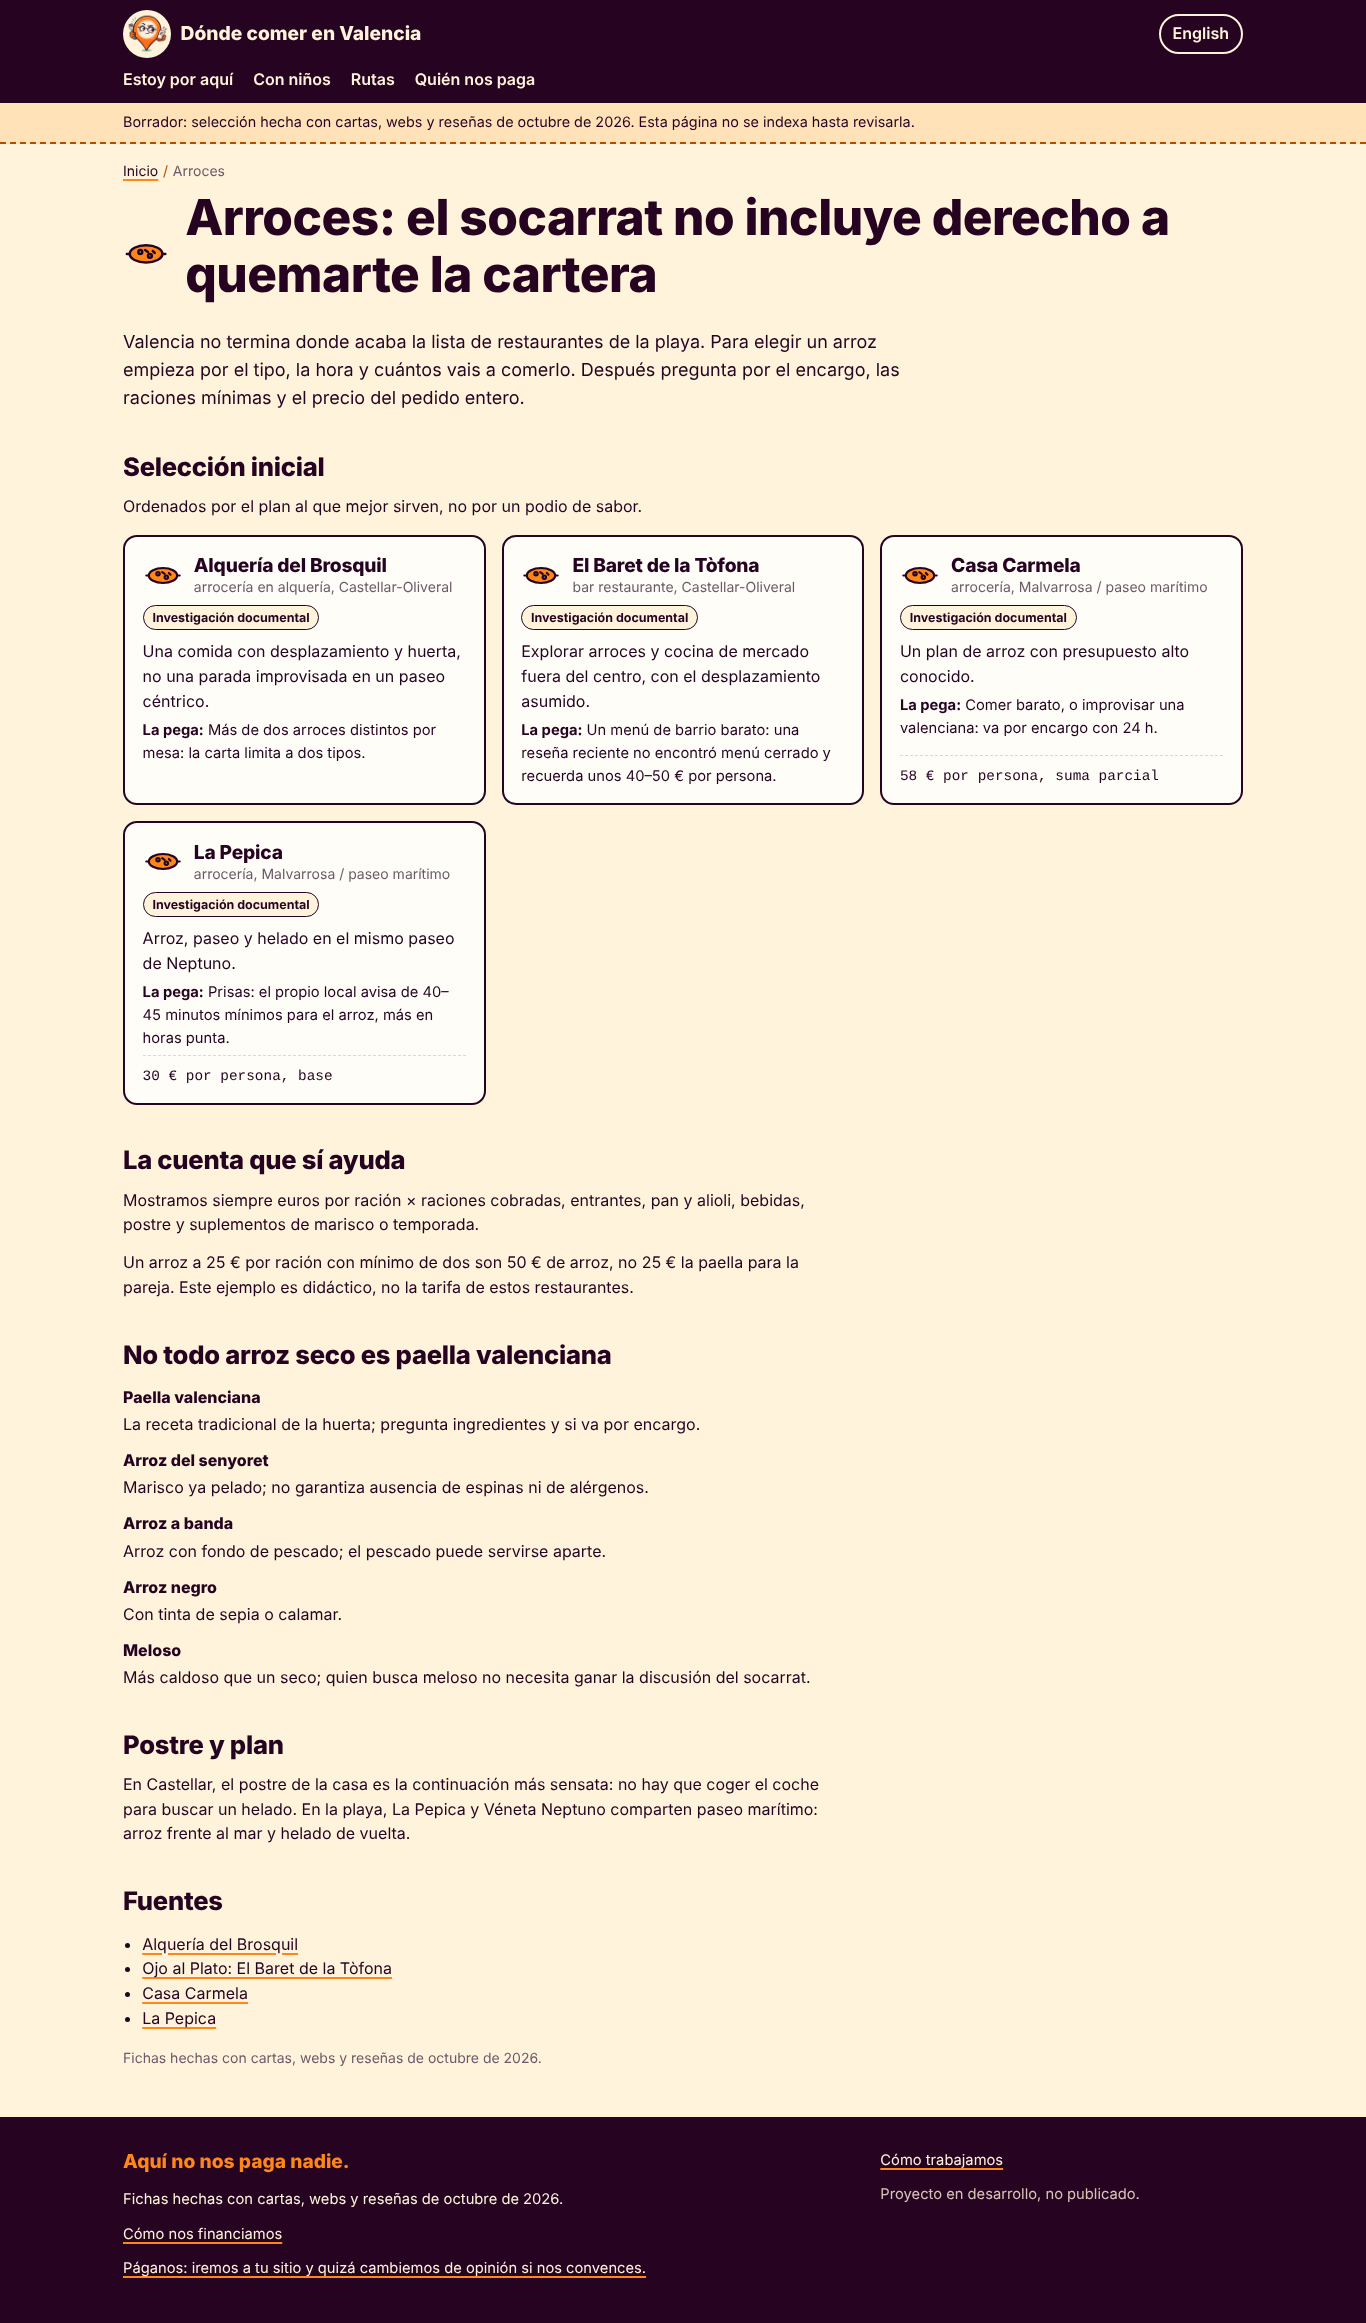
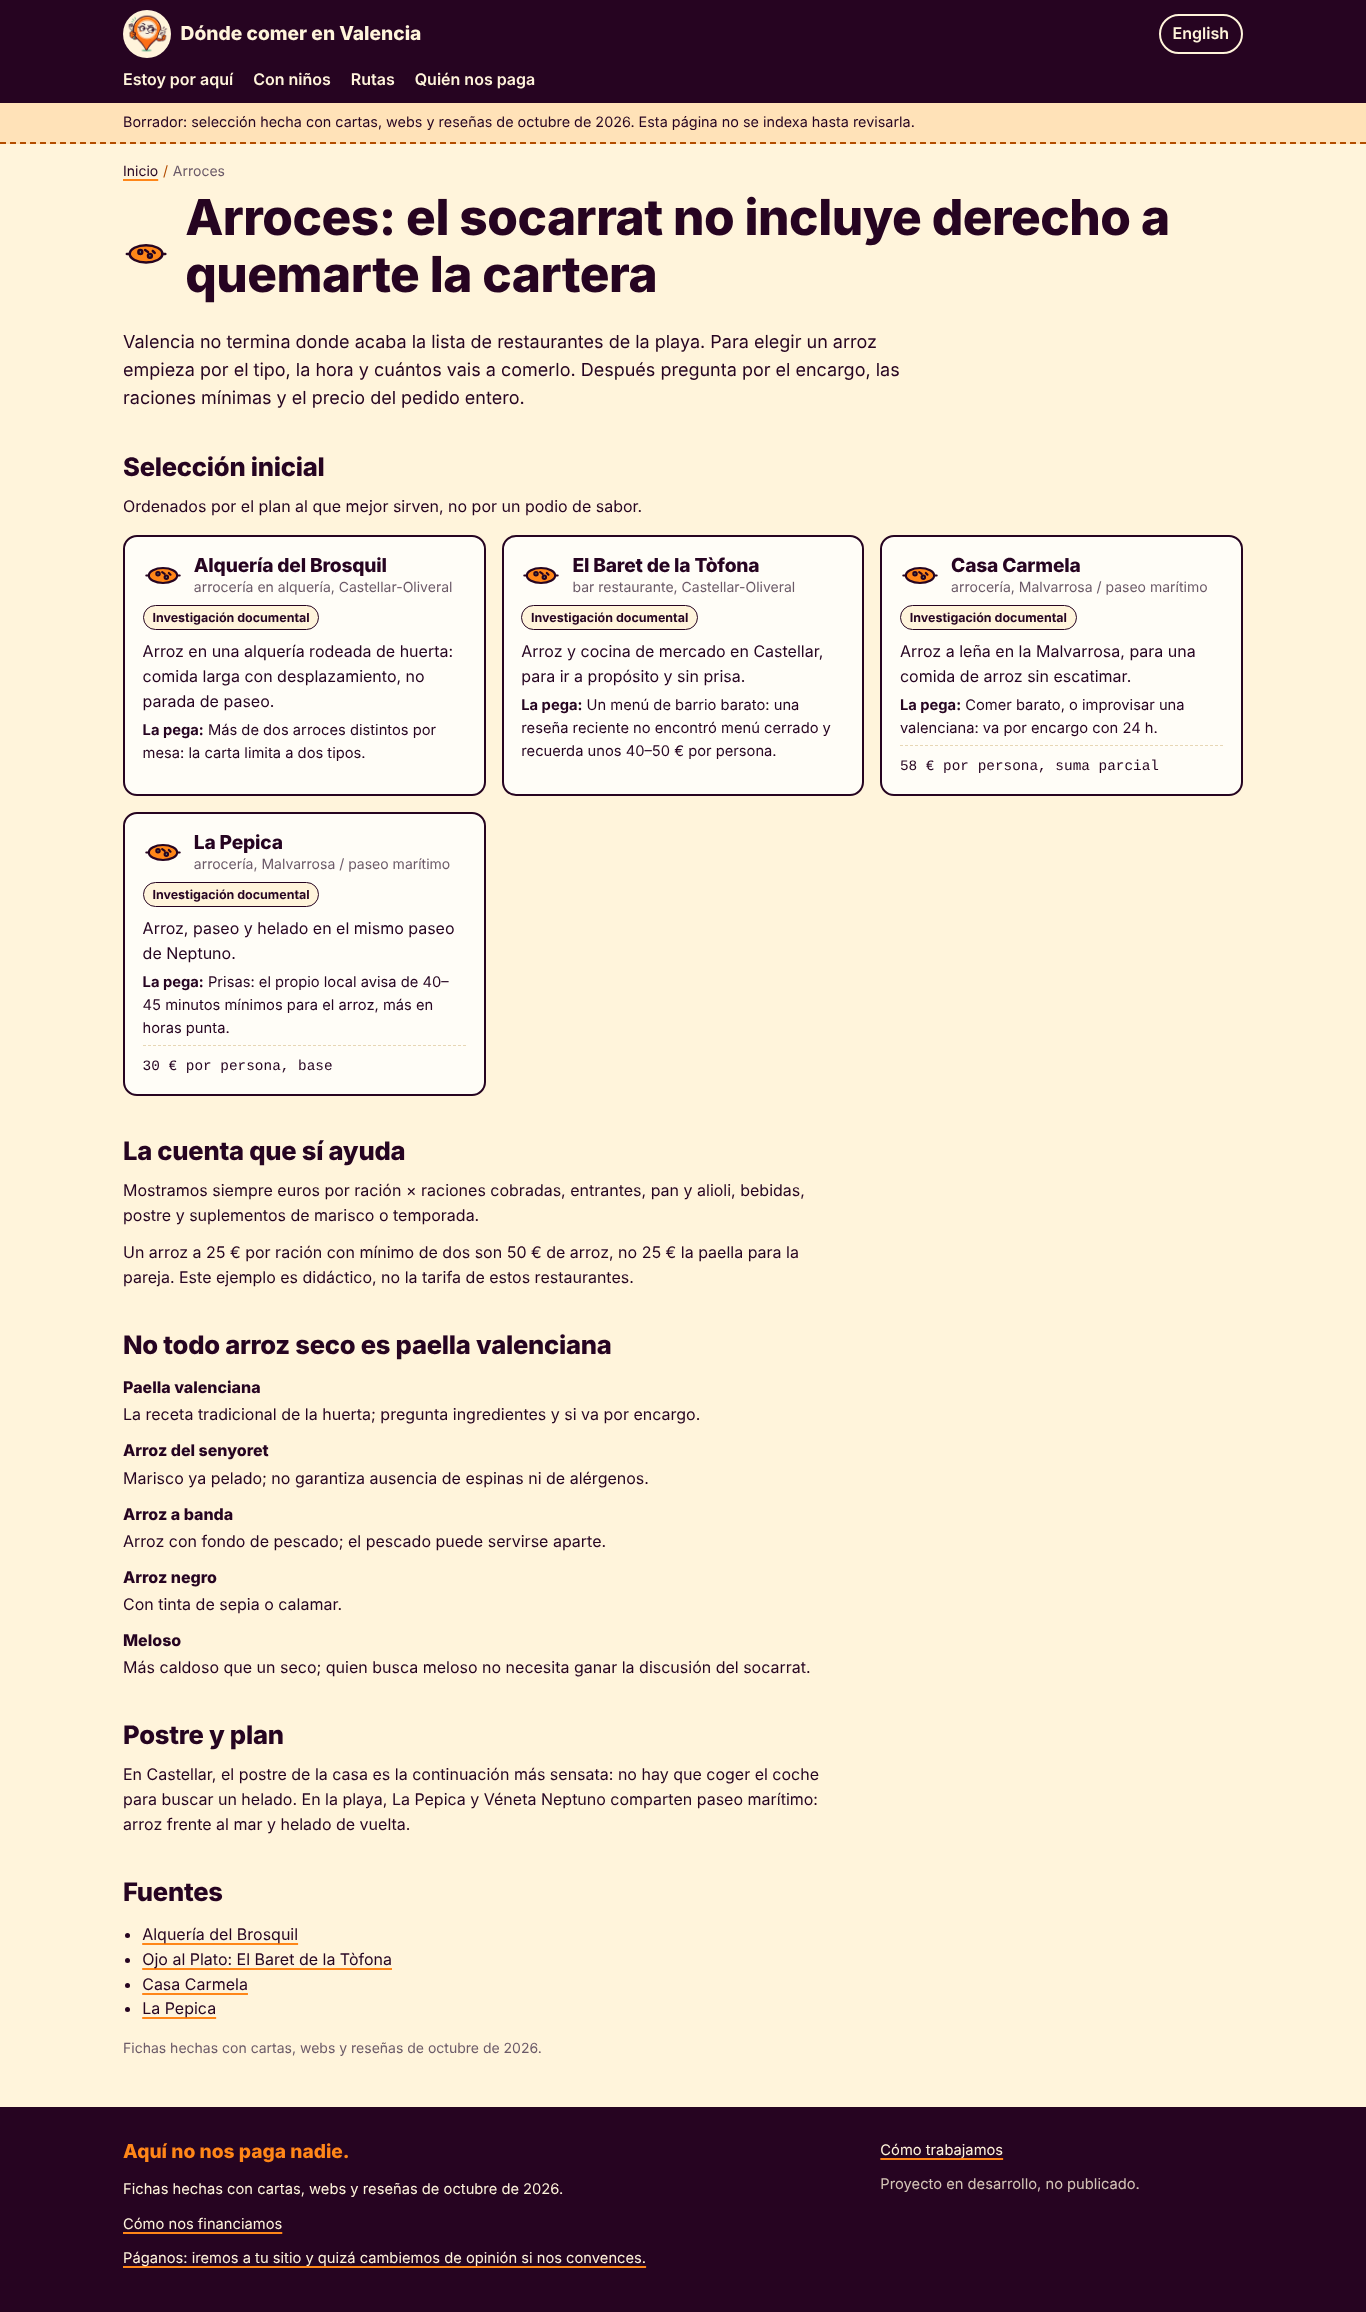
Voz de guía (2): «para quién» concreto en 33 fichas y menos cautelas de oficio
- Reescrita la línea «Para quién encaja» (la que se ve en tarjetas y selector)
  en 33 locales: dónde, qué y para qué plan, en vez de fórmulas genéricas.
- Fuera muletillas defensivas («no prueba», «no es representativa», «no lo
  extrapolamos», «no inventamos minutos andando» en cada ficha): la regla sigue
  en la metodología; la ficha da el consejo.
- La tabla «Comparar de un vistazo» solo compara locales con cifra y sin la
  columna de horario: una fila de rayas no ayuda a decidir.
- Comprobado: Tasty tiene local en Gaspar Aguilar 13 (Patraix) y el de Beak &
  Trotter en Comte d'Altea figura cerrado; Éter Antoni Suárez 31 es otra cocina.

Claude-Session: https://claude.ai/code/session_01SyEa4SRu7SYW1ydMx4jFH8

diff --git a/src/i18n.js b/src/i18n.js
@@ -71,7 +71,7 @@ export const UI = {
     evidence: 'De dónde sale esto',
     maps: 'Abrir en Google Maps',
     mapsWalk: 'Cómo llegar a pie (Maps)',
-    mapsNote: 'Enlace por nombre y dirección; Maps calcula el trayecto. No inventamos minutos andando.',
+    mapsNote: 'Enlace por nombre y dirección; Maps calcula el trayecto.',
     branchPending: 'Varias sucursales: mirad la más cercana en su web.',
     outsideCity: 'Fuera de Valencia ciudad',
     excursion: 'Excursión',
@@ -137,7 +137,7 @@ export const UI = {
     kidsNoInfo: '',
     // Evidencia
     evidenceKinds: { documental: 'Investigación documental', visita_propia: 'Visita propia', opinion_usuario: 'Opiniones de usuarios', premio_externo: 'Premio o guía externa' },
-    evidenceReviews: (n) => `Muestra de ${n} reseñas visibles de Google, seleccionadas por Google (vista limitada). No es representativa.`,
+    evidenceReviews: (n) => `Hemos leído las ${n} reseñas que Google mostraba ese día.`,
     evidenceNoVisit: '',
     disclosureDocumental: 'Ficha hecha con cartas, webs y reseñas, sin visita propia todavía. Nadie ha pagado ni invitado.',
     // Selector
@@ -354,7 +354,7 @@ export const UI = {
     evidence: 'Where this comes from',
     maps: 'Open in Google Maps',
     mapsWalk: 'Walking directions (Maps)',
-    mapsNote: 'Link built from name and address; Maps calculates the route. We don’t invent walking times.',
+    mapsNote: 'Link built from name and address; Maps calculates the route.',
     branchPending: 'Several branches: find the nearest one on their website.',
     outsideCity: 'Outside Valencia city',
     excursion: 'Day trip',
@@ -416,7 +416,7 @@ export const UI = {
     kidsCost: 'Cost',
     kidsNoInfo: '',
     evidenceKinds: { documental: 'Documentary research', visita_propia: 'Our own visit', opinion_usuario: 'User reviews', premio_externo: 'Outside award or guide' },
-    evidenceReviews: (n) => `Sample of ${n} Google reviews visible at the time, selected by Google (limited view). Not representative.`,
+    evidenceReviews: (n) => `We read the ${n} reviews Google was showing that day.`,
     evidenceNoVisit: '',
     disclosureDocumental: 'Card built from menus, websites and reviews, no visit by us yet. Nobody has paid or hosted us.',
     selectorH1: 'I’m around here — where shall we eat?',

diff --git a/src/render/components.js b/src/render/components.js
@@ -192,12 +192,15 @@ export function compareTable(places, ctx, lang) {
   const ui = UI[lang];
   const c = ui.compareCols;
   const m = (x) => money(x, lang);
-  const rows = places.map((p) => {
+  // Solo comparamos lo que tiene cifra: una fila de rayas no ayuda a decidir.
+  const priced = places.filter((p) => summarize(p.price).base != null);
+  if (priced.length < 2) return '';
+  const rows = priced.map((p) => {
     const s = summarize(p.price);
     const comp = (k) => ui.includes[s.components.find((x) => x.key === k).status];
-    return `<tr><th scope="row"><a href="${PATHS.place[lang](p.id)}">${e(p.name)}</a></th><td class="num">${s.base != null ? m(s.base) : ui.unknownMark}</td><td>${e(comp('bebida'))}</td><td>${e(comp('postre'))}</td><td>${e(ui.hoursStatus[p.hours?.status] || ui.unknownMark)}</td></tr>`;
+    return `<tr><th scope="row"><a href="${PATHS.place[lang](p.id)}">${e(p.name)}</a></th><td class="num">${s.base != null ? m(s.base) : ui.unknownMark}</td><td>${e(comp('bebida'))}</td><td>${e(comp('postre'))}</td></tr>`;
   }).join('');
-  return `<div class="compare" role="region" aria-label="${e(ui.compareTitle)}" tabindex="0"><table><caption>${e(ui.compareTitle)}</caption><thead><tr><th scope="col">${e(c.name)}</th><th scope="col">${e(c.base)}</th><th scope="col">${e(c.drink)}</th><th scope="col">${e(c.dessert)}</th><th scope="col">${e(c.hours)}</th></tr></thead><tbody>${rows}</tbody></table></div>`;
+  return `<div class="compare" role="region" aria-label="${e(ui.compareTitle)}" tabindex="0"><table><caption>${e(ui.compareTitle)}</caption><thead><tr><th scope="col">${e(c.name)}</th><th scope="col">${e(c.base)}</th><th scope="col">${e(c.drink)}</th><th scope="col">${e(c.dessert)}</th></tr></thead><tbody>${rows}</tbody></table></div>`;
 }
 
 export function bandLabel(place, lang) {
